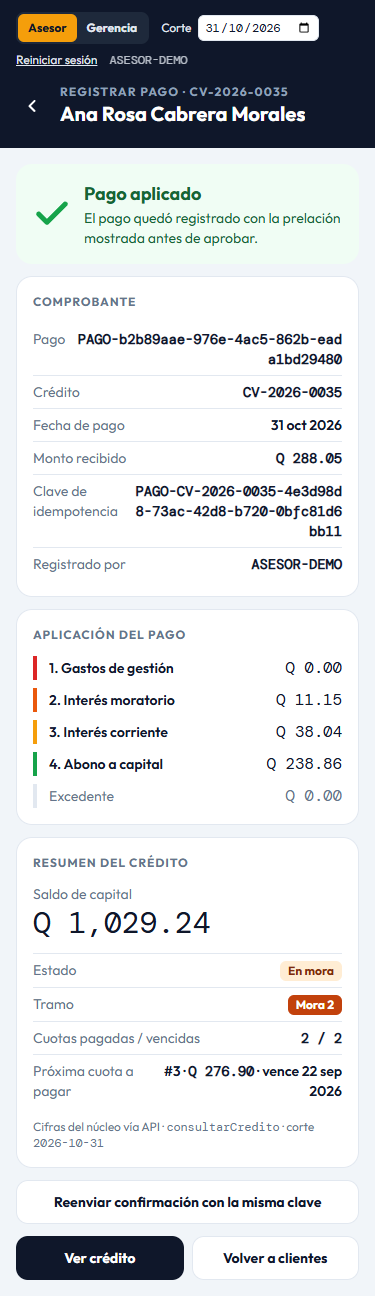
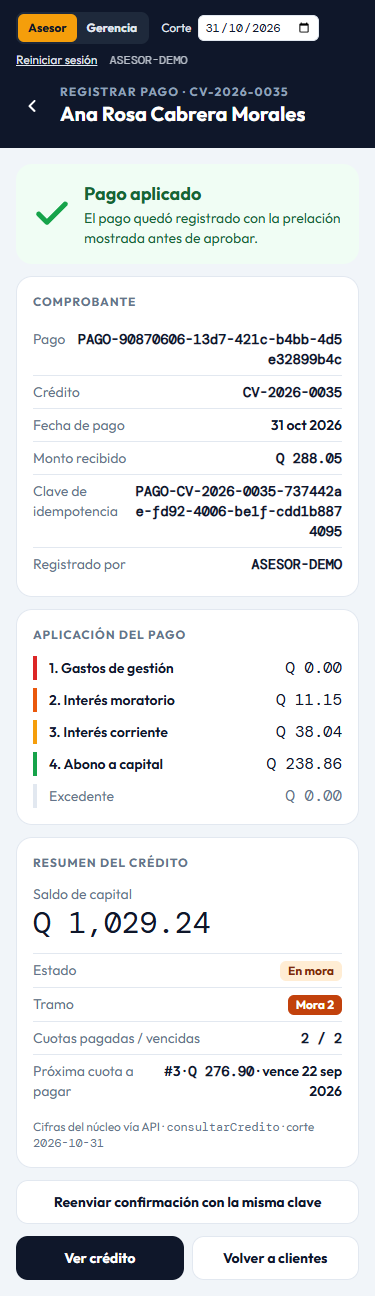
chore(pf): prompt de fase 6 y evidencia regenerada por el control previo
Capturas e2e (claves aleatorias nuevas) y respuestas reales del RAG de la
última corrida de fase6:preflight; la redacción del modelo varía levemente.

diff --git a/Prompt_Fase_6_Chat_Gerencial.md b/Prompt_Fase_6_Chat_Gerencial.md
@@ -1,0 +1,61 @@
+# Prompt de ejecución — Fase 6
+
+Este prompt corresponde a la fase 6 de `Prompt_Maestro_Proyecto_Final_Por_Fases_v2.md`. Antes de ejecutarlo, lee ese documento y aplica sus reglas globales, el stack contractual, el contrato canónico, las reglas R-1 a R-7, las decisiones D-1 a D-9 y los casos OP-1 a OP-7 y G-1 a G-8. Revisa los cierres vigentes de las fases anteriores: `docs/proyecto-final/00-auditoria-linea-base.md`, `01-arquitectura-contratos-integracion.md`, `02-persistencia-carga-canonica.md`, `03-api-interfaz-react.md`, `04-mcp-aprobacion-humana.md` y `05-rag-citacion-inyeccion.md`; verifica que se cumplieron sus criterios de salida antes de comenzar. Ejecuta únicamente esta fase y utiliza el formato de informe de la sección 3 del documento maestro. No avances automáticamente a la fase 7.
+
+## Continuidad con la fase 5
+
+- Inspecciona el estado Git antes de editar y conserva el trabajo existente. Continúa en `feat/proyecto-final-asistente-gerencial` si ya contiene las fases 0 a 5 (cierre de fase 5: commit `8d954df`, sin push); no recrees la rama ni descartes sus commits. Los recorridos e2e regeneran las capturas de `docs/proyecto-final/evidencia/capturas/`; si aparecen modificadas, revísalas y consérvalas o restáuralas de forma explícita, sin descartar otros cambios.
+- Ejecuta `npm run fase6:preflight` antes de cualquier cambio (en PowerShell, `npm.cmd run …` si la política de ejecución bloquea `npm.ps1`). Encadena typecheck de núcleo y web, `npm test`, la integración PostgreSQL (carga, API, MCP y stdio), los recorridos e2e, la comprobación de la carga de demo y las pruebas RAG con modelos reales; se detiene al primer fallo. Línea base esperada: 347 pruebas generales en 25 archivos, 30 de PostgreSQL en 4 archivos, 10 recorridos e2e y 6 pruebas RAG reales. Confirma la línea base real y conserva intactas todas las pruebas existentes.
+- Entorno local: contenedores `cv-proyecto-final-db` (PostgreSQL 17 + pgvector, `127.0.0.1:55432`, migraciones 001 a 003) y `cv-ollama` (Ollama 0.40.4, `127.0.0.1:11434`, `bge-m3` y `qwen3:8b` con sus digests en `evidencia/fase5-modelos.txt`); si están detenidos, `docker start cv-proyecto-final-db cv-ollama`. La base de demo ya tiene la carga canónica y el corpus ingerido. `.env` desde `.env.example`, nunca versionado. Usa Node.js 22 LTS conforme a `.nvmrc` (las fases 3 a 5 se validaron con v24.19.0) y registra la versión real.
+- Ya existen y deben reutilizarse, sin duplicar lógica: `conectarMcpSesion` (`src/api/conector-mcp.ts`, proceso MCP stdio ligado a la sesión de interfaz, ADR-020) para las siete consultas y `proponer_pago`; `responderPolitica` y `clasificarPregunta` (`src/rag/`, ADR-021) para preguntas normativas; la sesión de demostración, el evento humano de un solo uso y la confirmación `POST /v1/propuestas-pago/{propuestaId}/confirmacion` con `Idempotency-Key` (ADR-019); el layout gerencial y la ruta reservada `/gerencia/asistente` de la fase 3; y las variables `LLM_*`, `CHAT_SESSION_MAX_TURNS` (12) y `CHAT_SESSION_TTL_MINUTES` (60) de `.env.example` (ADR-008).
+- El orquestador del chat vive en el backend (por ejemplo, `src/chat/` expuesto por rutas `/v1/chat/...` de la misma API) y usa `qwen3:8b` con *tool calling* sobre las herramientas que publica el servidor MCP de la sesión. La interfaz del chat vive en `web/src/chat/` y se muestra en `/gerencia/asistente`, con acceso persistente desde el layout gerencial. El navegador nunca habla con Ollama ni con MCP directamente.
+- Enrutamiento: decide MCP, RAG o ambos con el modelo y las herramientas, apoyado en `clasificarPregunta`, sin depender solo de esta heurística (la fase 5 documentó falsos positivos como "¿cuántos habitantes…?"). Las cifras salen solo de los resultados de herramientas MCP y se muestran tal como las devolvió el núcleo. La fecha de corte de la sesión se pasa a las herramientas y aparece junto a cada cifra con la herramienta de origen.
+- Aprobación humana: cuando el modelo invoque `proponer_pago`, el chat muestra la propuesta (prelación, monto exacto, estado previsto, clave e identificador) con botones explícitos **Aprobar** y **Cancelar**. Aprobar llama a la confirmación existente de la API con evento humano e `Idempotency-Key`; ningún mensaje de texto, silencio ni respuesta del modelo cuenta como aprobación. Una propuesta pertenece a su sesión y no se reutiliza entre conversaciones; reiniciar la conversación invalida las pendientes.
+- Memoria: solo de la sesión, acotada a `CHAT_SESSION_MAX_TURNS` y `CHAT_SESSION_TTL_MINUTES`, con opción de reiniciar. No se guarda razonamiento interno ni se muestra al usuario (`think: false` y eliminación de bloques `<think>`); se muestran las llamadas a herramientas y su estado de forma comprensible. Al modelo no se le envían DPI, teléfonos ni registros completos de clientes, y la salida se filtra con el mismo filtro de PII del RAG.
+- Latencia: `qwen3:8b` en CPU tarda ~45 s por respuesta (fase 5) y una conversación con herramientas puede encadenar varias llamadas. Diseña estados de espera claros, tiempo límite por paso (`LLM_TIMEOUT_MS`) y manejo de errores y timeouts del modelo, embeddings, base de datos y MCP sin perder el estado de una propuesta pendiente. Documenta los tiempos reales medidos.
+- Pruebas en dos niveles: (1) **deterministas, dentro de `npm test`**, sin red ni Ollama, con un modelo guionado solo en pruebas que emite llamadas a herramientas (enrutamiento MCP/RAG/ambos, cifras del chat idénticas a las de la herramienta, aprobación solo por botón, rechazo de OP-7, ausencia de PII, aislamiento de sesiones, límite de memoria y reinicio); (2) **con Ollama y PostgreSQL reales, en un comando aparte** (por ejemplo `npm run test:chat`), sobre `TEST_DATABASE_URL`, para recorrer G-1 a G-8 y OP-7 tras OP-1 a OP-3 y comprobar que pantalla y chat coinciden en G-1 a G-5. Agrega al menos un recorrido e2e del chat en navegador. Las dependencias nuevas se justifican en el informe.
+- Documenta arquitectura del chat, enrutamiento, memoria, aprobación, manejo de errores y resultados verificables en el README, en `web/src/chat/README.md` y en `docs/proyecto-final/06-chat-gerencial.md`, con evidencia en `docs/proyecto-final/evidencia/fase6-*.txt` (incluidas las respuestas reales del modelo, sin editarlas) y capturas reales. Si una decisión lo requiere, regístrala en un ADR nuevo desde ADR-022. Agrega `npm run fase7:preflight` equivalente al control de esta fase que incluya las nuevas pruebas. No inventes resultados.
+
+# PROMPT 6 - Chat gerencial integrado (E5)
+
+## Objetivo
+
+Integrar en la misma aplicación un chat que orquesta MCP y RAG, conserva contexto de sesión y muestra aprobaciones humanas.
+
+## Acciones obligatorias
+
+1. El chat vive en `web/src/chat/`, dentro de la aplicación; no en terminal ni en una ventana aparte.
+2. Memoria limitada a la sesión, con opción de reiniciar la conversación.
+3. Decide si una solicitud requiere MCP, RAG o ambos.
+4. Cifras por MCP; políticas por RAG; respuestas mixtas combinando resultados sin recalcular.
+5. Muestra las llamadas y el estado de las herramientas de forma comprensible, sin razonamiento interno ni secretos. La fecha de corte usada y la herramienta de origen quedan visibles junto a cada cifra (origen visible exigido por el video).
+6. Citas como enlaces o referencias legibles.
+7. Al proponer un pago, muestra el desglose y botones explícitos de aprobar y cancelar. El silencio o un mensaje ambiguo no son aprobación.
+8. Maneja errores y timeouts del modelo, embeddings, base de datos y MCP sin perder el estado de una operación sensible.
+9. Evita DPI, teléfono u otros datos personales salvo que el caso de uso autorizado lo requiera; nunca en OP-7.
+10. Proveedor y modelo por variables de entorno; sin claves en el repositorio.
+11. Con Gemini o Groq, minimiza el contexto enviado: sin DPI, teléfonos ni registros completos de clientes.
+12. Contexto suficiente para preguntas encadenadas, sin mezclar sesiones ni reutilizar aprobaciones entre conversaciones.
+
+## Consultas obligatorias
+
+- G-1 a G-5 se ejecutan primero en pantalla y después en el chat, con resultados idénticos.
+- G-6 y G-7 se resuelven en el chat mediante MCP.
+- G-8 se resuelve mediante RAG con cita.
+- Todas usan corte `2026-10-31`, salvo G-7 (`2027-01-24`).
+- Se formulan después de OP-1 a OP-7, sobre el mismo estado de la base.
+
+## Pruebas mínimas
+
+- El chat enruta a MCP las preguntas numéricas, a RAG las normativas y a ambos las mixtas, y sus cifras son exactamente las de la herramienta.
+- Una propuesta de pago del chat no tiene efecto hasta pulsar Aprobar; Cancelar la deja sin efecto; un mensaje como "sí, apruébalo" no aprueba.
+- OP-7 en el chat no invoca herramientas por indicación de la nota, no reproduce sus marcadores y no contiene DPI ni teléfono.
+- Dos sesiones no comparten memoria ni propuestas; reiniciar la conversación limpia el contexto e invalida las propuestas pendientes.
+- Errores y timeouts del modelo o de MCP se muestran sin perder una propuesta pendiente ni filtrar trazas, SQL o PII.
+- G-1 a G-5 en el chat coinciden con las pantallas para el mismo corte.
+
+## Criterio de salida
+
+El chat mantiene contexto, usa la herramienta correcta y coincide con la pantalla porque ambos consumen el mismo núcleo.
+
+---
